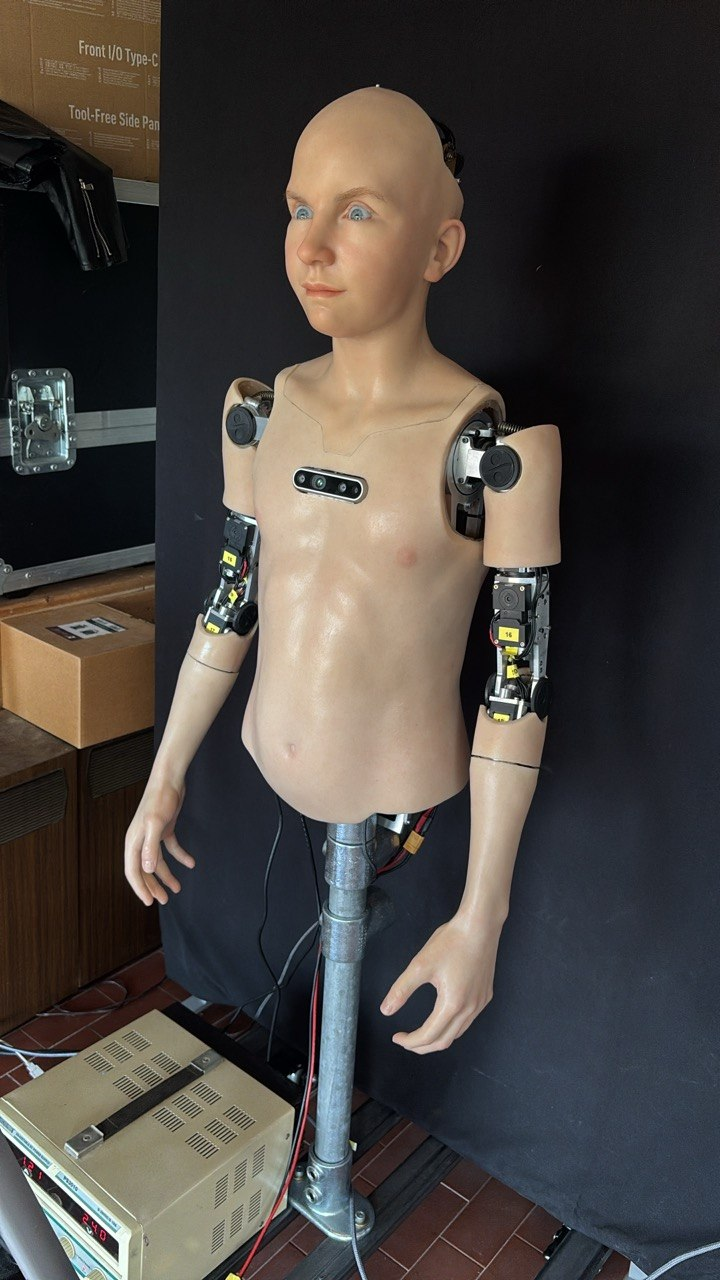
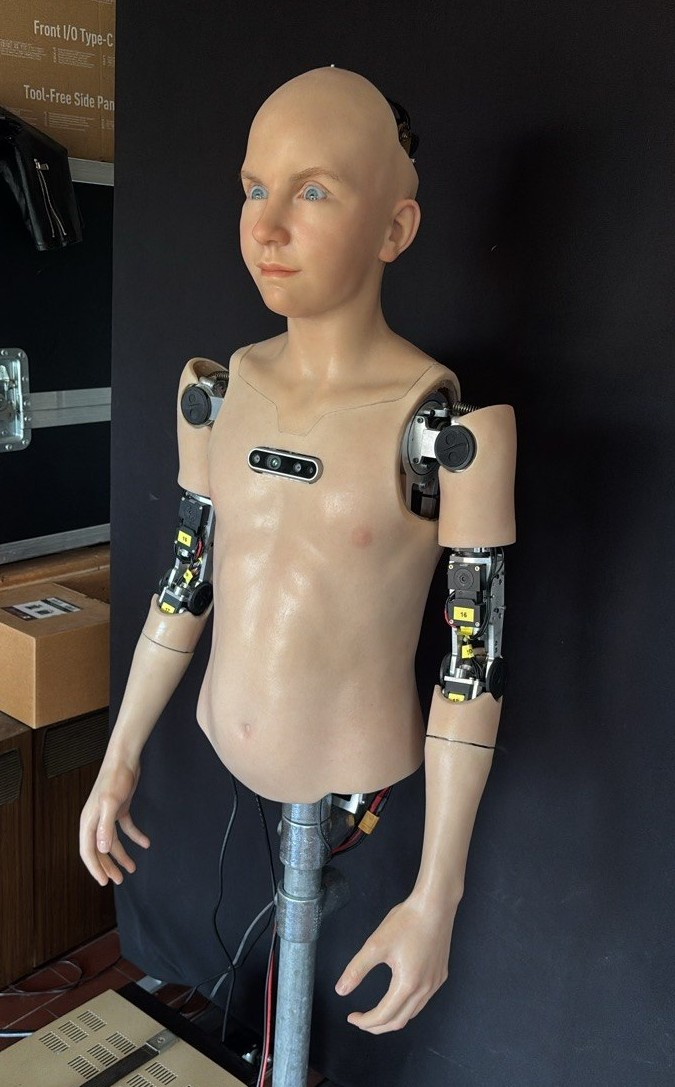
almost perfect, need to change text

diff --git a/index.html b/index.html
@@ -350,32 +350,32 @@
                 
                 <div class="split-layout">
                     <!-- MEDIA LEFT -->
-                    <div class="split-media" style="display: flex; flex-direction: row; gap: 15px;">
-                        <!-- Images Column -->
-                        <div class="media-masonry" style="flex: 1; margin-top: 0;">
-                            <div class="media-item">
-                                <img src="images/robotics/abel_and_seth.jpg" alt="Abel and Seth">
+                    <div class="split-media" style="display: flex; flex-direction: column; gap: 15px; max-width: 650px; margin: auto;">
+                        <!-- Upper Row: 3 Images -->
+                        <div style="display: flex; flex-direction: row; gap: 15px; justify-content: center; align-items: stretch; width: 100%;">
+                            <a href="https://forelab.unipi.it/technologies/abel-new-generation-hyper-realistic-humanoid-robot" target="_blank" class="media-item" style="flex: 0.59; text-decoration: none; margin: auto 0;">
+                                <img src="images/robotics/abel.jpg" alt="Abel Close up" style="width: 100%; height: auto; object-fit: contain;">
+                                <div class="media-caption" style="color: var(--accent);">Abel <i class="fas fa-external-link-alt fa-xs" style="margin-left: 5px;"></i></div>
+                            </a>
+                            <div class="media-item" style="flex: 0.75; margin: auto 0;">
+                                <img src="images/robotics/abel_and_seth.jpg" alt="Abel and Seth" style="width: 100%; height: auto; object-fit: contain;">
                                 <div class="media-caption">Abel & Seth</div>
                             </div>
-                            <a href="https://forelab.unipi.it/technologies/abel-new-generation-hyper-realistic-humanoid-robot" target="_blank" class="media-item" style="text-decoration: none;">
-                                <img src="images/robotics/Abel.jpg" alt="Abel Close up">
-                                <div class="media-caption" style="color: var(--accent);">Abel Close-up <i class="fas fa-external-link-alt fa-xs" style="margin-left: 5px;"></i></div>
-                            </a>
-                            <div class="media-item">
-                                <img src="images/robotics/seth.jpg" alt="Seth Close up">
-                                <div class="media-caption">Seth Close-up</div>
+                            <div class="media-item" style="flex: 0.62; margin: auto 0;">
+                                <img src="images/robotics/seth.jpg" alt="Seth Close up" style="width: 100%; height: auto; object-fit: contain;">
+                                <div class="media-caption">Seth</div>
                             </div>
                         </div>
-                        <!-- Videos Column -->
-                        <div style="display: flex; flex-direction: row; gap: 15px; flex: 1.5;">
-                            <div class="media-item" style="flex: 1;">
-                                <video autoplay loop muted playsinline>
+                        <!-- Lower Row: 2 Videos -->
+                        <div style="display: flex; flex-direction: row; gap: 15px; justify-content: center; align-items: stretch; width: 100%;">
+                            <div class="media-item" style="flex: 0.73; margin: auto 0;">
+                                <video autoplay loop muted playsinline style="width: 100%; height: auto; border-radius: 12px; border: var(--border);">
                                     <source src="images/robotics/abel_moving.mp4" type="video/mp4">
                                 </video>
                                 <div class="media-caption"><strong>Abel</strong>: Real-time collision avoidance with MoveIt</div>
                             </div>
-                            <div class="media-item" style="flex: 1;">
-                                <video autoplay loop muted playsinline>
+                            <div class="media-item" style="flex: 0.78; margin: auto 0;">
+                                <video autoplay loop muted playsinline style="width: 100%; height: auto; border-radius: 12px; border: var(--border);">
                                     <source src="images/robotics/seth_facial_retargeting.mp4" type="video/mp4">
                                 </video>
                                 <div class="media-caption"><strong>Seth</strong>: Real-time facial retargeting during conversation</div>
@@ -407,23 +407,23 @@
                 
                 <div class="split-layout reverse">
                     <!-- MEDIA RIGHT -->
-                    <div class="split-media">
-                        <div class="media-masonry" style="width: 70%; margin: 0 auto;">
-                            <div class="media-item">
-                                <img src="images/sad/brave_exp.png" alt="VR Scenario Setup">
+                    <div class="split-media" style="display: flex; flex-direction: column; gap: 15px; max-width: 650px; margin: auto;">
+                        <div style="display: flex; flex-direction: row; gap: 15px; width: 100%; align-items: stretch;">
+                            <div class="media-item" style="flex: 2.21; margin: auto 0;">
+                                <img src="images/sad/brave_exp.png" alt="VR Scenario Setup" style="width: 100%; height: auto; object-fit: contain;">
                                 <div class="media-caption">Immersive VR scenario with biometric sensor array</div>
                             </div>
-                            <div class="media-item">
-                                <img src="images/sad/brave_realtime.jpg" alt="Realtime Data Interface">
+                            <div class="media-item" style="flex: 1.78; margin: auto 0;">
+                                <img src="images/sad/brave_realtime.jpg" alt="Realtime Data Interface" style="width: 100%; height: auto; object-fit: contain;">
                                 <div class="media-caption">Real-time interface: ECG & EDA to anxiety features</div>
                             </div>
                         </div>
-                        <div style="display: flex; flex-direction: row; gap: 15px; width: 100%; max-width: 450px; margin: 15px auto 0; justify-content: center;">
-                            <div class="media-item" style="flex: 1;">
-                                <video autoplay loop muted playsinline>
+                        <div style="display: flex; flex-direction: row; gap: 15px; width: 100%; justify-content: center;">
+                            <div class="media-item" style="flex: 1.38; max-width: 80%; margin: auto;">
+                                <video autoplay loop muted playsinline style="width: 100%; height: auto; border-radius: 12px; border: var(--border);">
                                     <source src="images/sad/brave_video_cut.mp4" type="video/mp4">
                                 </video>
-                                <div class="media-caption">Real-time anxiety level detection during the VR experience</div>
+                                <div class="media-caption">Real-time anxiety level detection during the VR experience. This is fast forwarded by 8 times, to make it visible.</div>
                             </div>
                         </div>
                     </div>
@@ -452,27 +452,29 @@
                 
                 <div class="split-layout">
                     <!-- MEDIA LEFT -->
-                    <div class="split-media" style="display: flex; flex-direction: row; gap: 15px;">
-                        <!-- Left Column (Horizontal Video + Images) -->
-                        <div style="display: flex; flex-direction: column; gap: 15px; flex: 1;">
-                            <div class="media-item">
-                                <video autoplay loop muted playsinline>
+                    <div class="split-media" style="display: flex; flex-direction: column; gap: 15px; max-width: 650px; margin: auto;">
+                        <!-- Upper Row: 2 Images -->
+                        <div style="display: flex; flex-direction: row; gap: 15px; justify-content: center; align-items: stretch; width: 100%;">
+                            <div class="media-item" style="flex: 1.95; margin: auto 0;">
+                                <img src="images/ue/aoi_ada_looking_around.jpg" alt="AOI and ADA" style="width: 100%; height: auto; object-fit: contain;">
+                                <div class="media-caption">AOI & ADA Interactive Avatars</div>
+                            </div>
+                            <div class="media-item" style="flex: 1.40; margin: auto 0;">
+                                <img src="images/ue/aoi_cams.jpg" alt="AOI Cameras" style="width: 100%; height: auto; object-fit: contain;">
+                                <div class="media-caption">Multi-camera setup for Holobox rendering</div>
+                            </div>
+                        </div>
+                        <!-- Lower Row: 2 Videos -->
+                        <div style="display: flex; flex-direction: row; gap: 15px; justify-content: center; align-items: stretch; width: 100%;">
+                            <!-- AOI Triple Video -->
+                            <div class="media-item" style="flex: 2.01; margin: auto 0;">
+                                <video autoplay loop muted playsinline style="width: 100%; height: auto; border-radius: 12px; border: var(--border);">
                                     <source src="images/ue/aoi_cut.mp4" type="video/mp4">
                                 </video>
                                 <div class="media-caption">3-angle split render required for holographic illusion</div>
                             </div>
-                            <div style="display: flex; flex-direction: row; gap: 15px;">
-                                <div class="media-item" style="flex: 1;">
-                                    <img src="images/ue/aoi_ada_looking_around.jpg" alt="AOI and ADA">
-                                </div>
-                                <div class="media-item" style="flex: 1;">
-                                    <img src="images/ue/aoi_cams.jpg" alt="AOI Cameras">
-                                </div>
-                            </div>
-                        </div>
-                        <!-- Right Column (Vertical Video) -->
-                        <div style="display: flex; flex-direction: column; flex: 0.7; max-width: 280px;">
-                            <div class="media-item" style="height: 100%; justify-content: center; background: transparent; border: none;">
+                            <!-- Holobox Video (Vertical) -->
+                            <div class="media-item" style="flex: 1.00; margin: auto 0; background: transparent; border: none;">
                                 <video autoplay loop muted playsinline style="width: 100%; height: auto; border-radius: 12px; border: var(--border);">
                                     <source src="images/ue/aoi_holobox.mp4" type="video/mp4">
                                 </video>
@@ -497,26 +499,28 @@
 
                 <div class="split-layout reverse">
                     <!-- MEDIA RIGHT -->
-                    <div class="split-media">
-                        <div class="media-masonry" style="width: 70%; margin: 0 auto;">
-                            <div class="media-item">
-                                <img src="images/ue/jeff_mazzei_static_mesh.jpg" alt="Static Meshes" style="aspect-ratio: 4/3; object-fit: cover;">
+                    <div class="split-media" style="display: flex; flex-direction: column; gap: 15px; max-width: 650px; margin: auto;">
+                        <!-- Upper Row: 2 Images -->
+                        <div style="display: flex; flex-direction: row; gap: 15px; width: 100%; align-items: stretch;">
+                            <div class="media-item" style="flex: 1; margin: auto 0;">
+                                <img src="images/ue/jeff_mazzei_static_mesh.jpg" alt="Static Meshes" style="aspect-ratio: 4/3; object-fit: cover; width: 100%; height: auto;">
                                 <div class="media-caption">Point clouds converted to static meshes</div>
                             </div>
-                            <div class="media-item">
-                                <img src="images/ue/jefferson_hair.jpg" alt="Hair Grooming" style="aspect-ratio: 4/3; object-fit: cover;">
+                            <div class="media-item" style="flex: 1; margin: auto 0;">
+                                <img src="images/ue/jefferson_hair.jpg" alt="Hair Grooming" style="aspect-ratio: 4/3; object-fit: cover; width: 100%; height: auto;">
                                 <div class="media-caption">Detailed hair grooming in UE</div>
                             </div>
                         </div>
-                        <div style="display: flex; flex-direction: row; gap: 15px; width: 90%; margin: 15px auto 0; justify-content: center;">
-                            <div class="media-item" style="flex: 1; min-width: 140px;">
-                                <video autoplay loop muted playsinline style="aspect-ratio: 4/5; object-fit: cover;">
+                        <!-- Lower Row: 2 Videos -->
+                        <div style="display: flex; flex-direction: row; gap: 15px; width: 100%; align-items: stretch;">
+                            <div class="media-item" style="flex: 1; margin: auto 0;">
+                                <video autoplay loop muted playsinline style="aspect-ratio: 4/5; object-fit: cover; width: 100%; height: auto; border-radius: 12px; border: var(--border);">
                                     <source src="images/ue/mazzei_cut.mp4" type="video/mp4">
                                 </video>
                                 <div class="media-caption">Philip Mazzei: Fully animated MetaHuman</div>
                             </div>
-                            <div class="media-item" style="flex: 1; min-width: 140px;">
-                                <video autoplay loop muted playsinline style="aspect-ratio: 4/5; object-fit: cover;">
+                            <div class="media-item" style="flex: 1; margin: auto 0;">
+                                <video autoplay loop muted playsinline style="aspect-ratio: 4/5; object-fit: cover; width: 100%; height: auto; border-radius: 12px; border: var(--border);">
                                     <source src="images/ue/jeff_cut.mp4" type="video/mp4">
                                 </video>
                                 <div class="media-caption">Thomas Jefferson: Fully animated MetaHuman</div>